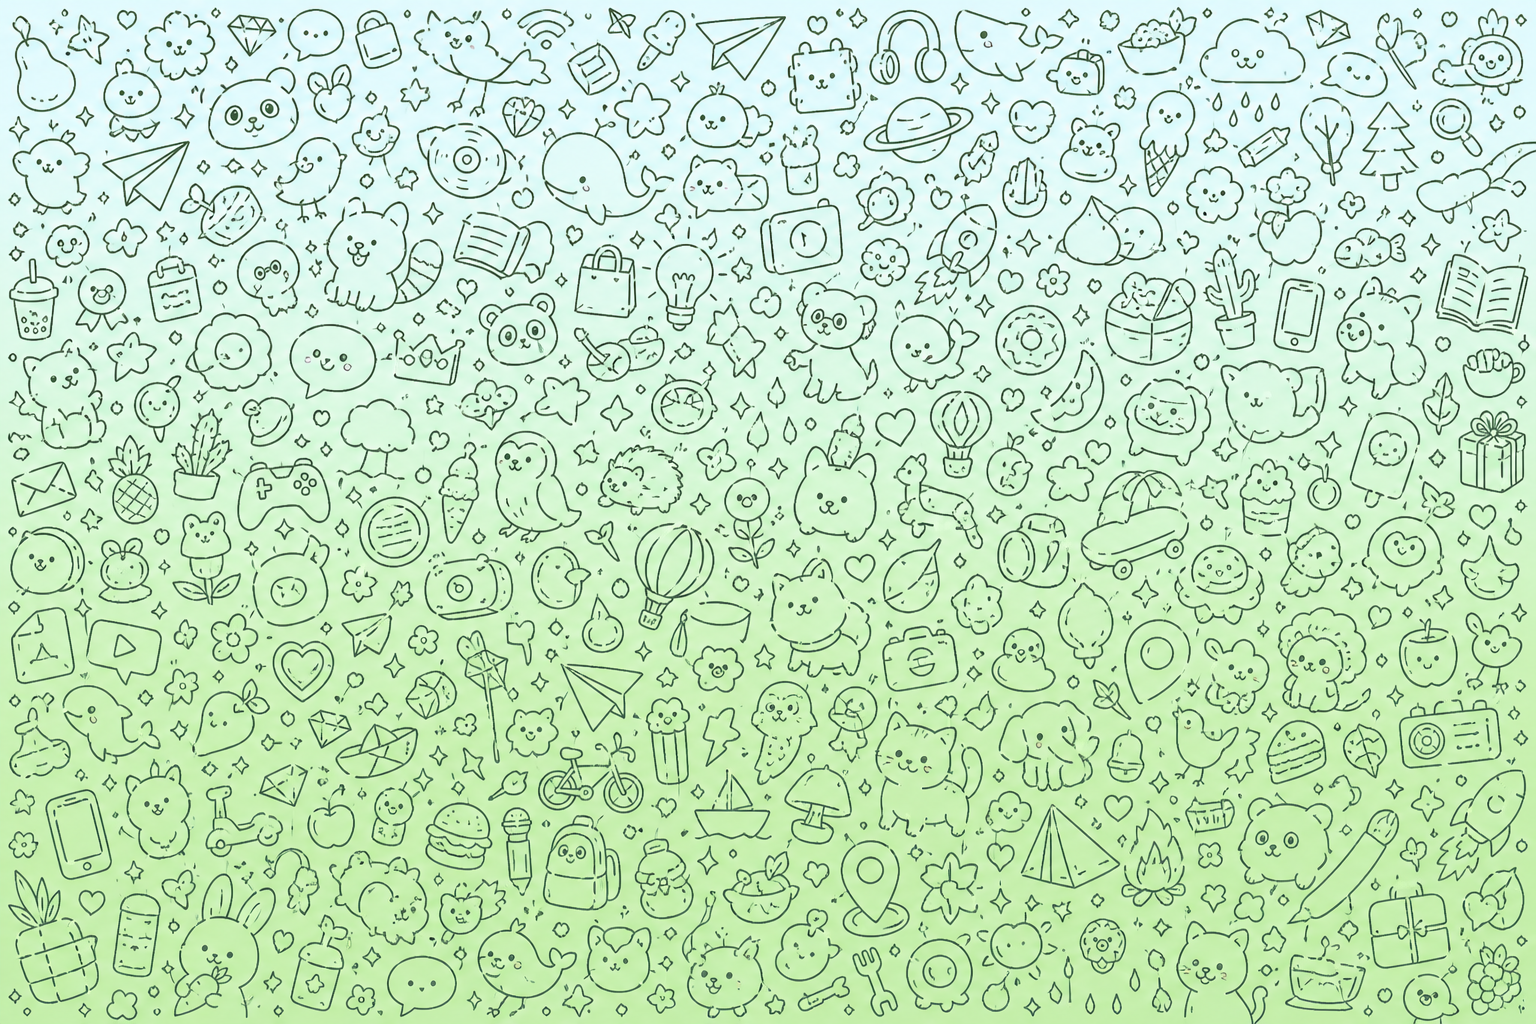
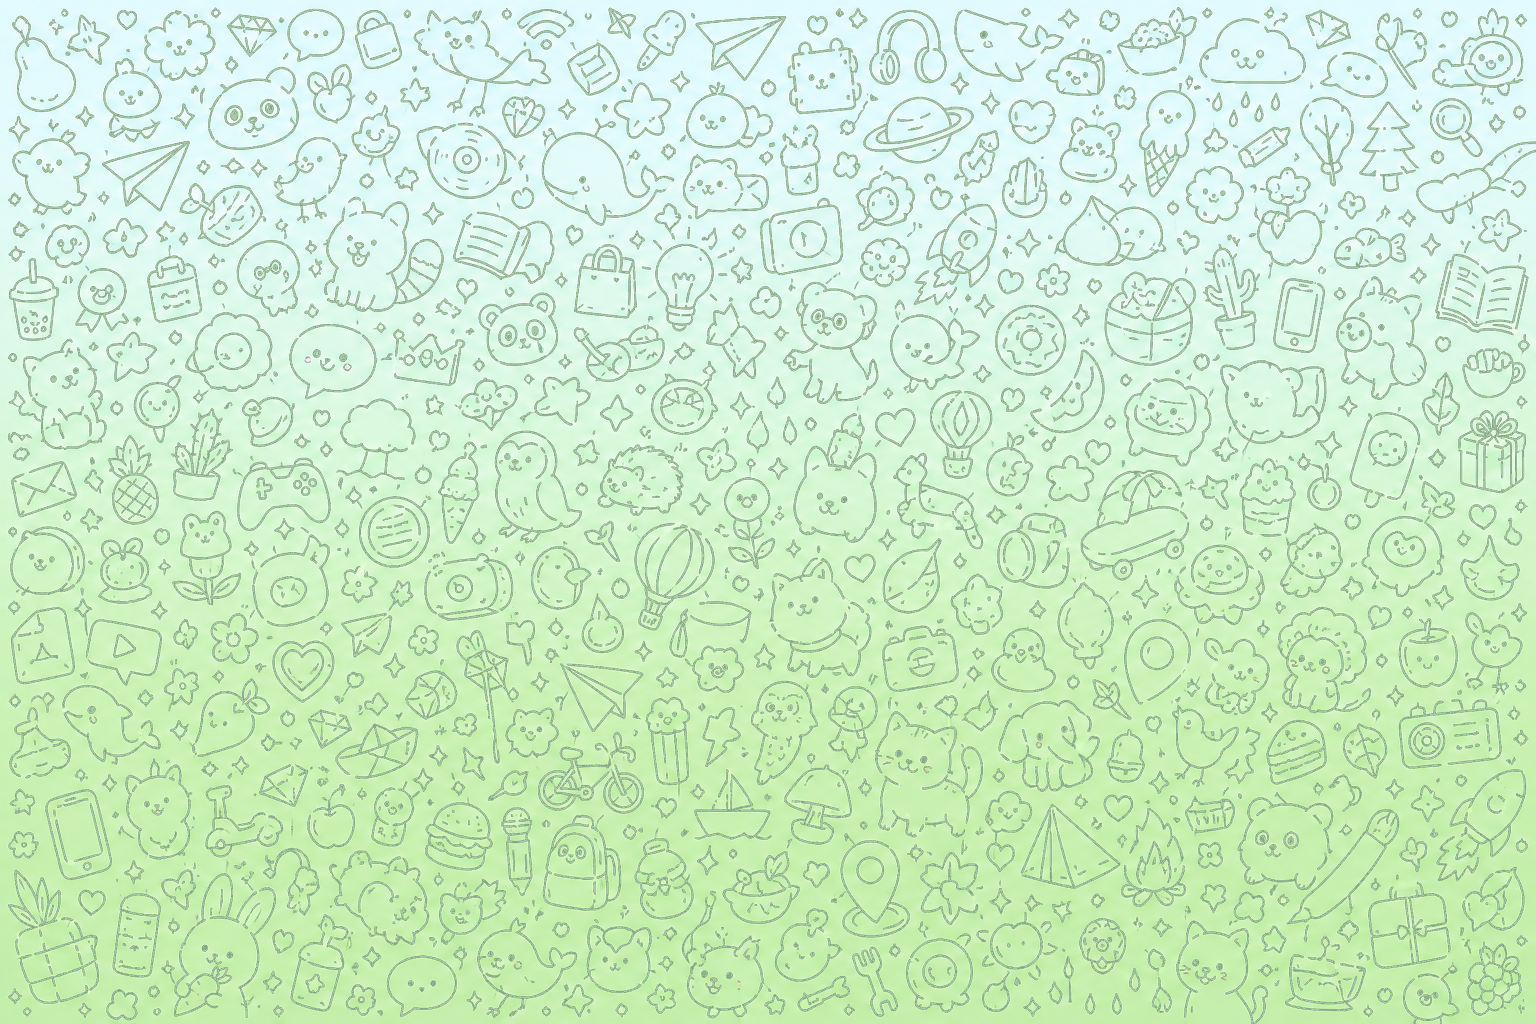
fix(mobile,web): softer chat wallpaper and cleaner message UI
Soften default doodle outlines, show Telegram source icon only for Telegram messages, and hide deleted-message tombstone bubbles.

diff --git a/mobile/src/screens/ChannelDiscussionScreen.tsx b/mobile/src/screens/ChannelDiscussionScreen.tsx
@@ -393,17 +393,11 @@ function DiscussionMessageBubble({
   const media = item.media?.[0];
   const replySnippet = renderReplySnippet();
 
-  const content = (() => {
-    if (item.is_deleted === 1) {
-      return (
-        <View style={[st.textBubble, isMe ? st.textBubbleMe : st.textBubbleOther]}>
-          {replySnippet}
-          <Text style={st.deletedText}>{isMe ? 'Вы удалили сообщение' : 'Сообщение удалено'}</Text>
-          <MessageTimeStatus time={time} status={displayStatus} isMe={isMe} compact />
-        </View>
-      );
-    }
+  if (item.is_deleted === 1) {
+    return null;
+  }
 
+  const content = (() => {
     if (item.msg_type === 'voice' && media) {
       const voiceUri =
         resolveVoiceMessageUri(item) ?? media.remote_url ?? `file://${item.id}`;
@@ -766,6 +760,10 @@ export function ChannelDiscussionScreen() {
 
   const messages = thread?.messages ?? EMPTY_MESSAGES;
   const sortedMessages = React.useMemo(() => [...messages].sort((a, b) => a.created_at - b.created_at), [messages]);
+  const visibleMessages = React.useMemo(
+    () => sortedMessages.filter((m) => m.is_deleted !== 1),
+    [sortedMessages],
+  );
   const messageById = React.useMemo(() => {
     const map = new Map<string, Message>();
     for (const message of sortedMessages) {
@@ -1242,7 +1240,7 @@ export function ChannelDiscussionScreen() {
             setContentRef={(node) => setContentRef(item.id, node)}
             onLongPress={() => openMessageMenu(item)}
             onReplyPreviewPress={(messageId) => {
-              const targetIndex = sortedMessages.findIndex((m) => m.id === messageId);
+              const targetIndex = visibleMessages.findIndex((m) => m.id === messageId);
               if (targetIndex < 0) return;
               listRef.current?.scrollToIndex({ index: targetIndex, animated: true, viewPosition: 0.5 });
             }}
@@ -1250,7 +1248,7 @@ export function ChannelDiscussionScreen() {
         </View>
       </ReplySwipeWrapper>
     );
-  }, [canSwipeReply, c.accent, currentUserId, messageById, openMessageMenu, setContentRef, sortedMessages, styles, thread?.can_comment, thread?.discussion_chat_id]);
+  }, [canSwipeReply, c.accent, currentUserId, messageById, openMessageMenu, setContentRef, visibleMessages, styles, thread?.can_comment, thread?.discussion_chat_id]);
 
   const renderMenuPreviewBody = React.useCallback((item: Message, forcedWidth?: number) => {
     const replied = item.reply_to_id ? messageById.get(item.reply_to_id) ?? null : null;
@@ -1300,7 +1298,7 @@ export function ChannelDiscussionScreen() {
           <Reanimated.View style={[styles.listWrap, listWrapAnimatedStyle]}>
           <FlatList
               ref={listRef}
-              data={sortedMessages}
+              data={visibleMessages}
             keyExtractor={(item) => item.id}
               renderItem={renderRow}
             refreshing={loading}

diff --git a/mobile/src/components/ChatMessageList.tsx b/mobile/src/components/ChatMessageList.tsx
@@ -1324,26 +1324,7 @@ const MessageRow = React.memo(function MessageRow({
 
   const renderBody = () => {
     if (item.is_deleted === 1) {
-      return (
-        <View
-          style={[
-            styles.deletedBubble,
-            isMe ? styles.deletedBubbleMe : styles.deletedBubbleOther,
-            isMe ? { backgroundColor: chatTheme.deletedBubbleMe } : null,
-          ]}
-        >
-          <Text style={[styles.deletedText, isMe && { color: chatTheme.deletedTextMe }]}>
-            {getDeletedPlaceholder(isMe)}
-          </Text>
-          <MessageTimeStatus
-            time={formatTime(item.created_at)}
-            status={item.status}
-            isMe={isMe}
-            compact
-            source={item.source}
-          />
-        </View>
-      );
+      return null;
     }
 
     if (bodyItem.msg_type === 'system') {

diff --git a/mobile/src/screens/ChatScreen.tsx b/mobile/src/screens/ChatScreen.tsx
@@ -2128,26 +2128,7 @@ export function ChatScreen() {
     };
 
     if (item.is_deleted === 1) {
-      return (
-        <View
-          style={[
-            styles.deletedBubble,
-            fixedWidthStyle,
-            isMe ? styles.deletedBubbleMe : styles.deletedBubbleOther,
-            isMe ? { backgroundColor: chatTheme.deletedBubbleMe } : null,
-          ]}
-        >
-          <Text style={[styles.deletedText, isMe && { color: chatTheme.deletedTextMe }]}>
-            {getDeletedPlaceholder(isMe)}
-          </Text>
-          <MessageTimeStatus
-            time={formatTime(item.created_at)}
-            status={item.status}
-            isMe={isMe}
-            compact
-          />
-        </View>
-      );
+      return null;
     }
 
     if (item.msg_type === 'text') {

diff --git a/web/src/features/conversation/__tests__/MessageBubble.test.tsx b/web/src/features/conversation/__tests__/MessageBubble.test.tsx
@@ -57,8 +57,8 @@ describe('MessageBubble', () => {
     vi.mocked(useMessagesQuery).mockReturnValue(mockMessagesQuery([]));
   });
 
-  it('renders deleted message placeholder', () => {
-    render(
+  it('hides deleted messages instead of showing a placeholder', () => {
+    const { container } = render(
       <MessageBubble
         chatId="chat-1"
         message={makeMessage({ is_deleted: true })}
@@ -66,7 +66,7 @@ describe('MessageBubble', () => {
         selectionActive={false}
       />,
     );
-    expect(screen.getByText('Deleted message')).toBeInTheDocument();
+    expect(container).toBeEmptyDOMElement();
   });
 
   it('shows reply quote with Russian voice label', () => {

diff --git a/mobile/src/components/MessageTimeStatus.tsx b/mobile/src/components/MessageTimeStatus.tsx
@@ -159,9 +159,9 @@ export function MessageTimeStatus({
 }: MessageTimeStatusProps) {
   return (
     <View style={[styles.container, compact && styles.containerCompact]}>
-      {source && (
-        <PlatformSourceIcon source={source} size={compact ? 10 : 12} />
-      )}
+      {source === 'telegram' ? (
+        <PlatformSourceIcon source="telegram" size={compact ? 10 : 12} />
+      ) : null}
       {viewCount ? (
         <View style={styles.viewCountWrap}>
           <Feather name="eye" size={compact ? 11 : 12} color={timeColor || colors.textSecondary} />

diff --git a/web/src/features/conversation/MessageList.tsx b/web/src/features/conversation/MessageList.tsx
@@ -101,7 +101,7 @@ export function MessageList({ chatId }: MessageListProps) {
   return (
     <div className="message-list" ref={containerRef} role="log" aria-relevant="additions">
       <div className="message-list__inner">
-        {messages.map((message) => {
+        {messages.filter((message) => !message.is_deleted).map((message) => {
           const isOutgoing = !!me?.id && message.sender_id === me.id;
           const isSelected = selectedIds.includes(message.id);
           return (

diff --git a/web/src/app-mobile/components/MobileMessageList.tsx b/web/src/app-mobile/components/MobileMessageList.tsx
@@ -145,7 +145,9 @@ export function MobileMessageList({ chatId, keyboardLift = 0, isGroupChat = fals
       onPointerUp={handlePointerUp}
       onPointerCancel={handlePointerUp}
     >
-      {messages.map((message) => {
+      {messages
+        .filter((message) => !message.is_deleted)
+        .map((message) => {
         const isOutgoing = !!me?.id && message.sender_id === me.id;
         return (
           <MobileSwipeReplyRow

diff --git a/mobile/src/presentation/chatStickerListRows.ts b/mobile/src/presentation/chatStickerListRows.ts
@@ -21,7 +21,7 @@ export function buildStickerGroupedChatRows(
   messages: Message[],
   _currentUserId: string | null,
 ): ChatListRow[] {
-  return messages.map((m) => m);
+  return messages.filter((m) => m.is_deleted !== 1).map((m) => m);
 }
 
 /** Индекс строки в `buildStickerGroupedChatRows` для любого `messageId` из исходного списка. */
